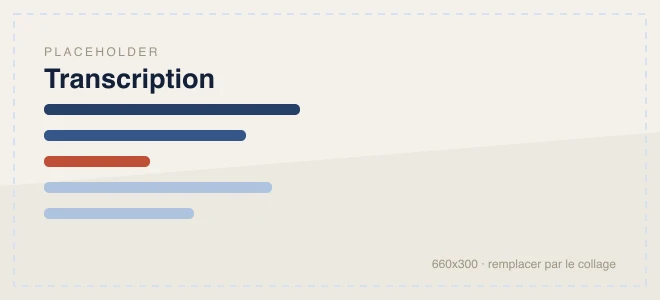
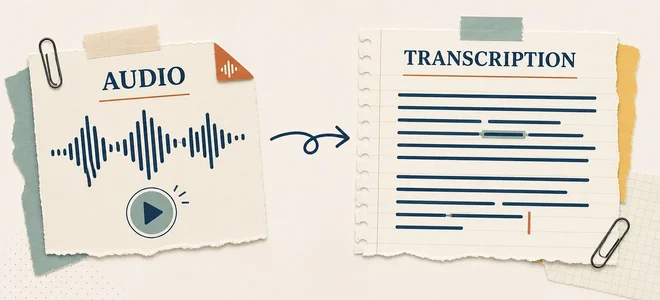
feat(home): real collage for the Transcription workshop card
Replaces the labelled placeholder with the brand artwork (waveform note, arrow,
ruled-paper transcription — torn paper and tape, palette colours) at the same
660x300 / 1320x600 pair. Drops the swap-me comment and updates the alt text in
fr/en/es to describe the actual image instead of the placeholder-era wording.

diff --git a/src/pages/home.tsx b/src/pages/home.tsx
@@ -118,9 +118,7 @@ export function HomePage() {
               />
 
               {/* Sits next to Audio on purpose: 02 turns a script into audio, 03
-                  turns audio back into text. PLACEHOLDER ARTWORK — swap
-                  public/images/workshops/workshop-transcription{,@2x}.webp for the
-                  real collage; nothing else needs to change. */}
+                  turns audio back into text. */}
               <Workshop
                 number="03"
                 title={t("home.transcription_title")}
